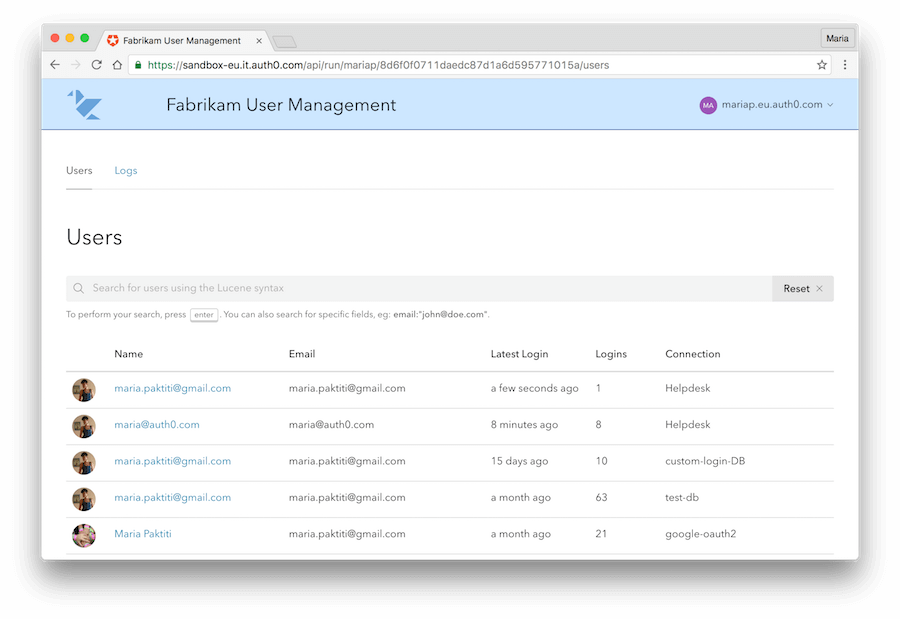
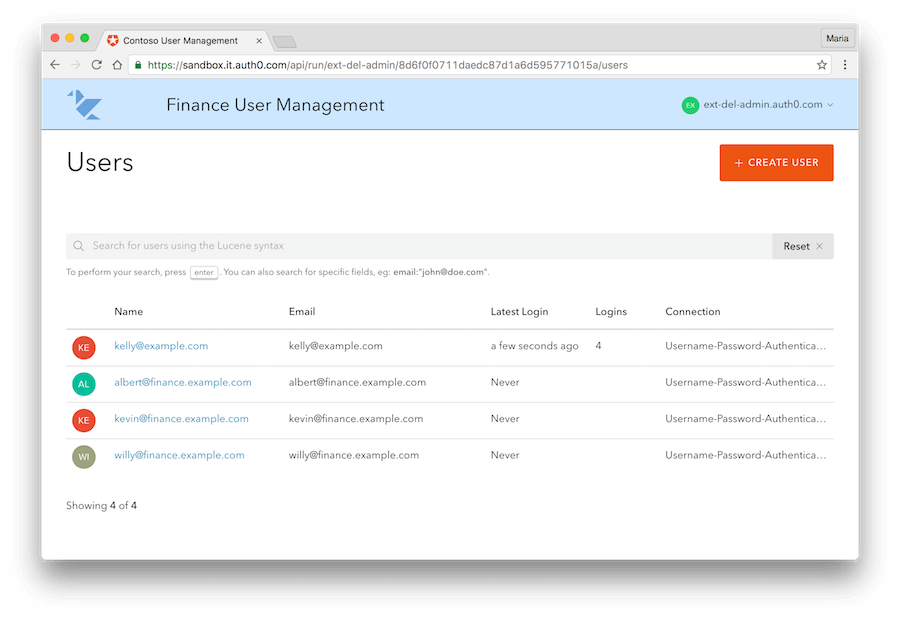
Screenshots update and some text editing

diff --git a/articles/extensions/delegated-admin.md b/articles/extensions/delegated-admin.md
@@ -34,7 +34,7 @@ Save your changes.
 
 ### Enable Connections on the Client
 
-When you create a new client, by default all the connections are enabled. This is something you want to change in this case, for security reasons. The approach we follow in this tutorial is to disable all connections, create a new Database Connection and enable only this one for our new client application. But you could do the same with an AD, ADFS, ... connection for example.
+When you create a new client, by default all the connections are enabled. This is something you want to change in this case, for security reasons. The approach we follow in this tutorial is to disable all connections, create a new Database Connection and enable only this one for our new client application. But you could do the same with another type of connection, like AD, ADFS, and so forth.
 
 Navigate to the *Connections* tab and disable all the connections using the switch.
 
@@ -48,14 +48,14 @@ Navigate to the *Settings* tab of the new connection and enable the **Disable Si
 
 Enable this new connection for your client (*Users Dashboard* in our case) and add at least one user.
 
-### Assing the right Roles to your Users
+### Assign the right Roles to your Users
 
 Access to the extension requires your users to have the right roles:
 
- - `Delegated Admin - User`: These users can search for users, create users, open users and execute actions on these users (like Delete, Block ...)
- - `Delegated Admin - Administrator`: These users can additional see all logs in an account and configure Hooks
+ - `Delegated Admin - User`: These users can search for users, create users, open users and execute actions on these users (like Delete, Block, and so forth).
+ - `Delegated Admin - Administrator`: These users can additional see all logs in an account and configure Hooks.
 
-Only users that have these roles defined in `user.roles`, `user.app_metadata.roles` or `user.app_metadata.authorization.roles` will be able to use the extension. You could manually set these roles in your users or use a rule in order to do this. The following rule shows how users from the `IT Department` are given the Administrator role while "Department Managers" are given the User role.
+Only users that have these roles defined in `user.roles`, `user.app_metadata.roles` or `user.app_metadata.authorization.roles` will be able to use the extension. You could manually set these roles in your users or use a rule in order to do this. The following rule shows how users from the `IT Department` are given the `Delegated Admin - Administrator` role while `Department Managers` are given the `Delegated Admin - User` role.
 
 ```js
 function (user, context, callback) {
@@ -109,9 +109,11 @@ Once you provide valid credentials you are navigated to the *Delegated Administr
 
 Users with the `Delegated Admin - Administrator` role will see a *Configure* option in the top-right dropdown. On the Configuration page you can manage the different hooks and queries in the dashboard, which allows you to customize the behavior of the dashboard.
 
+![](/media/articles/extensions/delegated-admin/dashboard-configuration.png)
+
 #### Filter Hook
 
-By default, users with the `Delegated Admin - User` role will see all users in an Auth0 account. This could be fine if the dashboard is used by your Helpdesk department. But if you want to delegate administration to your departments (eg: Finance, HR, IT ...) or to your customers, your vendors, your offices ... you'll want to filter the data users can see. With the **Filter Hook** you can decide how the list of users is filtered.
+By default, users with the `Delegated Admin - User` role will see all users in an Auth0 account. This could be fine if the dashboard is used by your Helpdesk department. But if you want to delegate administration to your departments (Finance, HR, IT, and so forth) or to your customers, your vendors, or your offices you'll want to filter the data users can see. With the **Filter Hook** you can decide how the list of users is filtered.
 
 Hook contract:
 
@@ -119,7 +121,7 @@ Hook contract:
    - `log`: A method that allows you to write something to Webtask logs
    - `request`: The current request.
      - `user`: The current logged in user.
- - `callback(error, query)`: The callback to which you can return an error or the [lucene query](https://auth0.com/docs/api/management/v2/query-string-syntax) which should be used when filtering the users. The extension will send this query to the [`GET Users` endpoint](https://auth0.com/docs/api/management/v2#!/Users/get_users) of the Management API.
+ - `callback(error, query)`: The callback to which you can return an error or the [lucene query](/api/management/v2/query-string-syntax) which should be used when filtering the users. The extension will send this query to the [`GET Users` endpoint](/api/management/v2#!/Users/get_users) of the Management API.
 
 Example: If **Kelly** manages the Finance department, she should only see the users that are also part of the Finance department. So we'll filter the users based on the department of the current user.
 
@@ -148,13 +150,13 @@ function(ctx, callback) {
 }
 ```
 
-> Note: We highly suggest you to not use single or double quotes in your department/group/... name on which you'll want to filter since this might cause issues with the Lucene query.
+> Note: We highly suggest not to use single or double quotes in your department or group name on which you'll want to filter since this might cause issues with the Lucene query.
 
 If this hook is not configure, **all users** will be returned.
 
 #### Access Hook
 
-While the **Filter Hook** only applies filtering logic you'll need a second layer of logic to determine if the current user is allowed to access a specific user. This is what the **Access Hook** allows you to do, determine if the current user is allowed to read, delete, block, unblock ... a specific user.
+While the **Filter Hook** only applies filtering logic you'll need a second layer of logic to determine if the current user is allowed to access a specific user. This is what the **Access Hook** allows you to do, determine if the current user is allowed to read, delete, block, unblock, etc a specific user.
 
 Hook contract:
 
@@ -265,7 +267,7 @@ Hook contract:
      - `connection`: The name of the user.
  - `callback(error)`: The callback to which you can return an error and an array containing the list of memberships.
 
-Example: Users of the IT department should be able to create users in other departments. Users from other deparments, should only see their own department.
+Example: Users of the IT department should be able to create users in other departments. Users from other departments, should only see their own department.
 
 ```js
 function(ctx, callback) {
@@ -319,7 +321,11 @@ function(ctx, callback) {
 
 ### Manage Users
 
-There are two available views, *Users* and *Logs*. At the *Users* view you can see the users displayed and perform certain actions on them. In the table below you can see all the options you can perform on a user, which ones are available via the [dashboard](${manage_url}/#/) and which via the extension.
+There are two available views, *Users* and *Logs*. At the *Users* view you can see the users displayed and perform certain actions on them.
+
+Keep in mind that by default all users are displayed, but you can constrain that by configuring a [filter hook](#filter-hook).
+
+In the table below you can see all the options you can perform on a user, which ones are available via the [dashboard](${manage_url}/#/) and which via the extension. Once more, keep in mind that this is the superset of the actions a user can perform. It can always be constrained by configuring an [access hook](#access-hook).
 
 <table class="table">
     <tr>
@@ -381,6 +387,18 @@ Notice the new *Reset Password* option available via the extension. This option 
 This will send an email to the user, containing a link to change the password.
 
 At the *Logs* view you can see log data of authentications made by your users (this tab is only visible to users with the `Delegated Admin - Administrator` role). The contents of this view are a subset of the data displayed in the [Logs Dashboard](${manage_url}/#/logs), which also displays data for the actions taken in the dashboard by the administrators.
+
+### Create Users
+
+You can create a new user by selecting the **+ Create User** button at the *Users* view. The information you need to specify are email and password. Depending on your role you may or may be able to set the *Department* that the new user belongs to.
+
+For example, users with the `Delegated Admin - Administrator` role can see the **Department** field and select any of its values.
+
+![](/media/articles/extensions/delegated-admin/create-user-admin.png)
+
+On the other hand, Kelly who has the `Delegated Admin - User` role and belongs to the Finance department, cannot see this field. The user she will create will be automatically assigned to the Finance department.
+
+![](/media/articles/extensions/delegated-admin/create-user-kelly.png)
 
 ## Customize the dashboard
 
